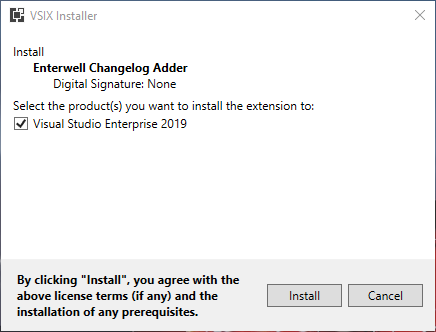
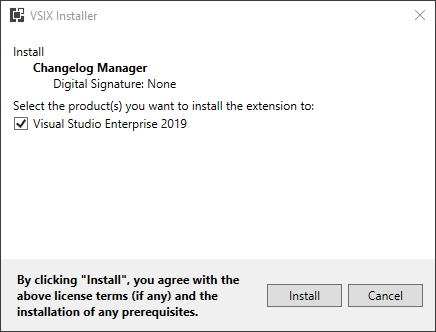
Renamed extension

diff --git a/Enterwell.CI.Changelog.VSIX/source.extension.cs b/Enterwell.CI.Changelog.VSIX/source.extension.cs
@@ -8,10 +8,10 @@ namespace Enterwell.CI.Changelog.VSIX
     internal sealed partial class Vsix
     {
         public const string Id = "fbb23368-981a-4001-80ee-d3d3f930ed85";
-        public const string Name = "Enterwell Changelog Adder";
+        public const string Name = "Changelog Manager";
         public const string Description = @"This extension helps developers make easy notes on changes made to the their codebase.";
         public const string Language = "en-US";
-        public const string Version = "1.0.2";
+        public const string Version = "1.0.3";
         public const string Author = "Enterwell";
         public const string Tags = "";
     }
